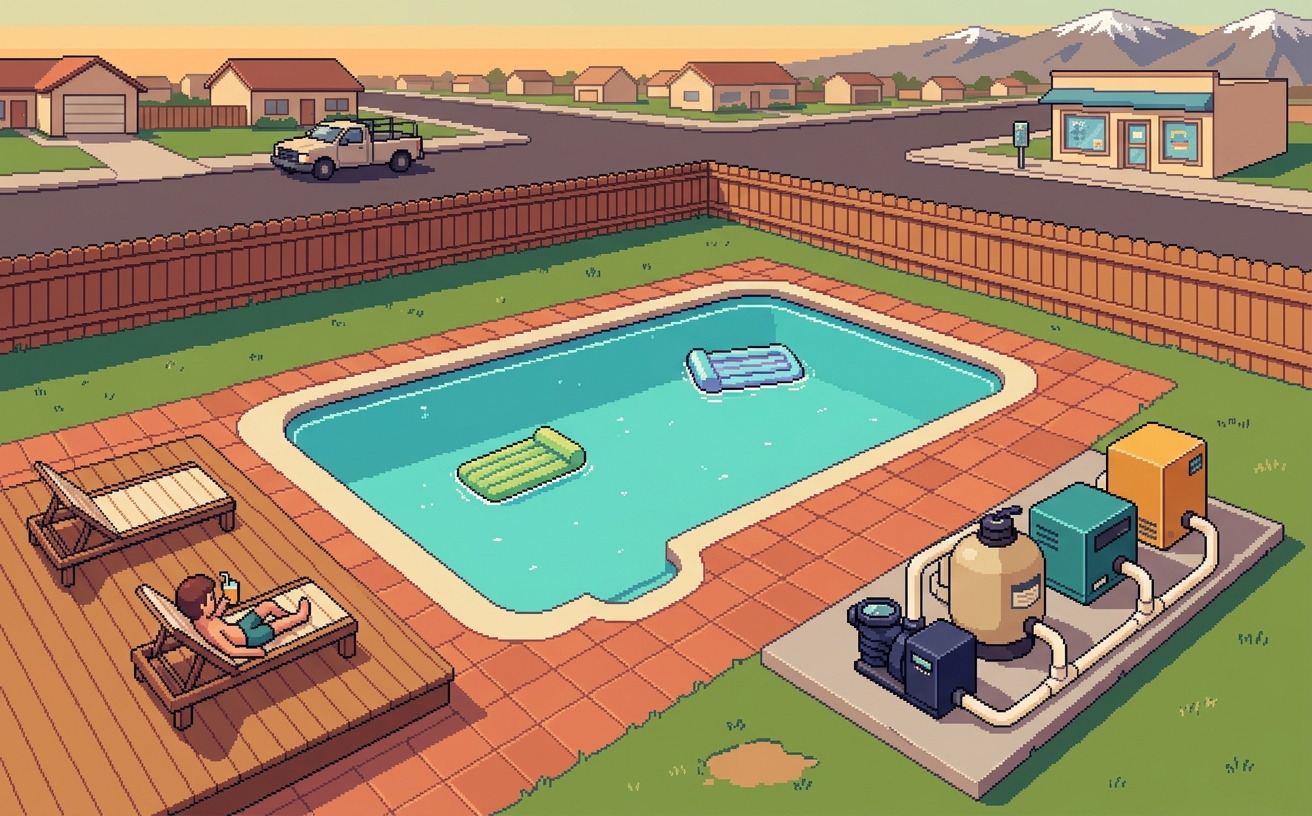
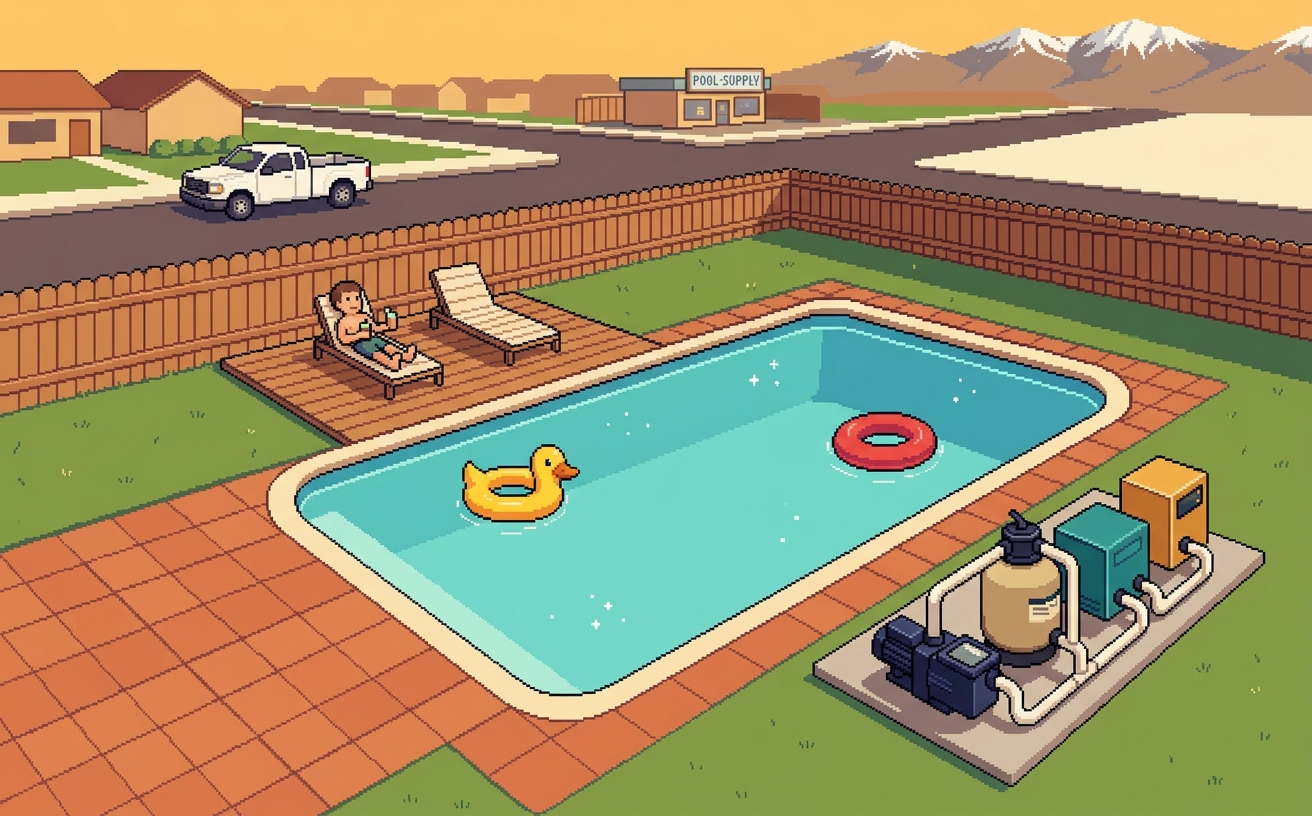
Canvas 3 fixes: clean base, vine-only bougainvillea, sparkle dots, orange repositioned
- Regenerated base macro with stricter no-trees-no-vines prompt so palms and bougainvillea aren't double-rendered
- Regenerated bougainvillea as vine-only (no fence section baked in) so it sits cleanly on the existing fence in the base
- Repositioned orange tree from left:4 top:30 to left:64 top:22, between the pool and the equipment pad — clears the lounger figure
- Replaced rectangular pool-shimmer overlay with 12 inline SVG sparkle pixels twinkling at independent timings on the pool surface (sparkleTwinkle keyframe), reads as ambient water glitter instead of a tiled box

Pipeline unchanged: chroma-key in PIL still the clean keyer for AI-generated subjects on magenta backdrop.

diff --git a/src/app/canvas-3/page.tsx b/src/app/canvas-3/page.tsx
@@ -66,21 +66,8 @@ export default function Canvas3Page() {
           aria-hidden
         />
 
-        {/* z-15 — pool water shimmer, sits on top of the pool area in the bg */}
-        <div
-          className="absolute z-[15] bg-no-repeat bg-contain mix-blend-screen pointer-events-none"
-          style={{
-            left: "32%",
-            top: "62%",
-            width: "30%",
-            height: "8%",
-            backgroundImage: "url(/assets/canvas/layers/pool-shimmer.png)",
-            imageRendering: "pixelated",
-            opacity: 0.55,
-            animation: "shimmerPulse 4.5s ease-in-out infinite",
-          }}
-          aria-hidden
-        />
+        {/* z-15 — pool water sparkles, inline SVG twinkles scattered on the pool */}
+        <PoolSparkles />
 
         {/* z-18 — chimney smoke from a distant house */}
         <div
@@ -151,14 +138,14 @@ export default function Canvas3Page() {
           />
         </div>
 
-        {/* z-22 — orange tree, foreground near deck, gentle leaf sway */}
+        {/* z-22 — orange tree, sits between pool and equipment pad (clear of lounger) */}
         <div
           className="absolute z-[22]"
           style={{
-            left: "4%",
-            top: "30%",
-            width: "16%",
-            height: "55%",
+            left: "64%",
+            top: "22%",
+            width: "13%",
+            height: "48%",
             animation: "treeSway 6s ease-in-out infinite",
             transformOrigin: "50% 95%",
             animationDelay: "0.7s",
@@ -189,23 +176,24 @@ export default function Canvas3Page() {
           />
         </div>
 
-        {/* z-21 — bougainvillea cascading the right fence */}
+        {/* z-21 — bougainvillea vine cascading over the back fence (anchored above
+            the existing fence in the base, no second fence rendered) */}
         <div
           className="absolute z-[21]"
           style={{
-            left: "44%",
-            top: "12%",
-            width: "26%",
-            height: "20%",
+            left: "42%",
+            top: "8%",
+            width: "22%",
+            height: "18%",
             animation: "bougainSway 9s ease-in-out infinite",
-            transformOrigin: "50% 95%",
+            transformOrigin: "50% 100%",
           }}
           aria-hidden
         >
           <div
-            className="h-full w-full bg-no-repeat bg-contain bg-bottom"
+            className="h-full w-full bg-no-repeat bg-contain bg-top"
             style={{
-              backgroundImage: "url(/assets/canvas/layers/bougainvillea.png)",
+              backgroundImage: "url(/assets/canvas/layers/bougainvillea-vine.png)",
               imageRendering: "pixelated",
             }}
           />
@@ -258,6 +246,49 @@ export default function Canvas3Page() {
           ← original canvas
         </Link>
       </div>
+    </div>
+  );
+}
+
+/**
+ * PoolSparkles: scattered chunky white pixels on the pool surface that
+ * twinkle in and out on their own timers. Replaces the rectangular shimmer
+ * overlay which read as a tiled box rather than ambient sparkle.
+ */
+function PoolSparkles() {
+  // Pool zone approx x: 32-66%, y: 56-78%
+  const sparkles = [
+    { x: 36, y: 62, delay: 0.0, dur: 3.6 },
+    { x: 41, y: 68, delay: 1.4, dur: 4.2 },
+    { x: 47, y: 60, delay: 0.7, dur: 3.0 },
+    { x: 52, y: 71, delay: 2.1, dur: 4.5 },
+    { x: 56, y: 65, delay: 1.0, dur: 3.4 },
+    { x: 60, y: 73, delay: 2.8, dur: 4.0 },
+    { x: 44, y: 75, delay: 0.4, dur: 3.8 },
+    { x: 50, y: 58, delay: 1.7, dur: 3.2 },
+    { x: 38, y: 70, delay: 2.4, dur: 4.4 },
+    { x: 58, y: 60, delay: 0.9, dur: 3.7 },
+    { x: 54, y: 64, delay: 1.6, dur: 4.1 },
+    { x: 42, y: 72, delay: 2.3, dur: 3.5 },
+  ];
+  return (
+    <div className="absolute inset-0 z-[15] pointer-events-none" aria-hidden>
+      {sparkles.map((s, i) => (
+        <span
+          key={i}
+          className="absolute block"
+          style={{
+            left: `${s.x}%`,
+            top: `${s.y}%`,
+            width: 6,
+            height: 6,
+            backgroundColor: "white",
+            opacity: 0,
+            boxShadow: "0 0 6px rgba(255,255,255,0.85)",
+            animation: `sparkleTwinkle ${s.dur}s ease-in-out ${s.delay}s infinite`,
+          }}
+        />
+      ))}
     </div>
   );
 }

diff --git a/src/app/globals.css b/src/app/globals.css
@@ -167,6 +167,13 @@ button { font-family: inherit; cursor: pointer; }
   100% { transform: translateY(-80px) scaleX(1.3); opacity: 0; }
 }
 
+/* Pool sparkle — small chunky pixel that twinkles on the water surface */
+@keyframes sparkleTwinkle {
+  0%, 100% { opacity: 0; transform: scale(0.6); }
+  45% { opacity: 0.95; transform: scale(1); }
+  55% { opacity: 0.95; transform: scale(1); }
+}
+
 /* Per-city palette overrides — applied via data-city on a wrapper div.
    See iterations.md "Local-page pixel-art generation as SEO moat" for
    the architecture context. */
